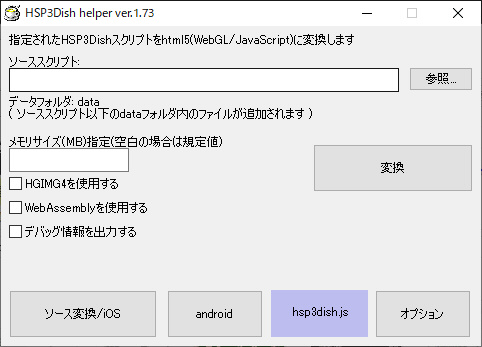
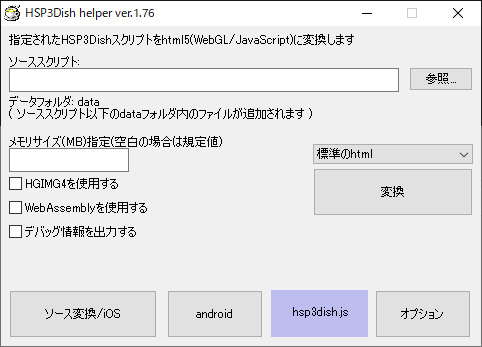
[HSP3Dish][hsp3js] htmlテンプレートの選択機能を追加
git-svn-id: http://dev.onionsoft.net/svn/openhsp/trunk@1152 ceb3ebad-0e53-d446-8596-a45b2b8d79cd

diff --git a/package/win32/hsp3js/template2.html b/package/win32/hsp3js/template2.html
@@ -8,6 +8,7 @@
       body {
         font-family: arial;
         margin: 0;
+        background-color: black;
         padding: none;
       }
 
@@ -36,10 +37,10 @@
         -o-animation: rotation .8s linear infinite;
         animation: rotation 0.8s linear infinite;
 
-        border-left: 5px solid rgb(235, 235, 235);
-        border-right: 5px solid rgb(235, 235, 235);
-        border-bottom: 5px solid rgb(235, 235, 235);
-        border-top: 5px solid rgb(120, 120, 120);
+        border-left: 5px solid rgb(0, 0, 0);
+        border-right: 5px solid rgb(0, 0, 0);
+        border-bottom: 5px solid rgb(0, 0, 0);
+        border-top: 5px solid rgb(0, 0, 0);
         
         border-radius: 100%;
         background-color: rgb(189, 215, 46);
@@ -86,12 +87,12 @@
 
       #output {
         width: 100%;
-        height: 200px;
+        height: 64px;
         margin: 0 auto;
         margin-top: 10px;
         display: block;
         background-color: black;
-        color: white;
+        color: rgb(120, 120, 120);
         font-family: 'Lucida Console', Monaco, monospace;
         outline: none;
       }
@@ -394,6 +395,6 @@ $$$requestonload$$$
 
     </script>
     <script async type="text/javascript" src="hsp3dish.js"></script>
-  <p><font size="2" color="#404040">powered by <a href="https://hsp.tv/make/hsp3dish.html" target="_blank">hsp3dish.js</a> / OpenHSP</font></p>
+  <p><font size="2" color="#c0c0c0">powered by <a href="https://hsp.tv/make/hsp3dish.html" target="_blank">hsp3dish.js</a> / OpenHSP</font></p>
   </body>
 </html>
